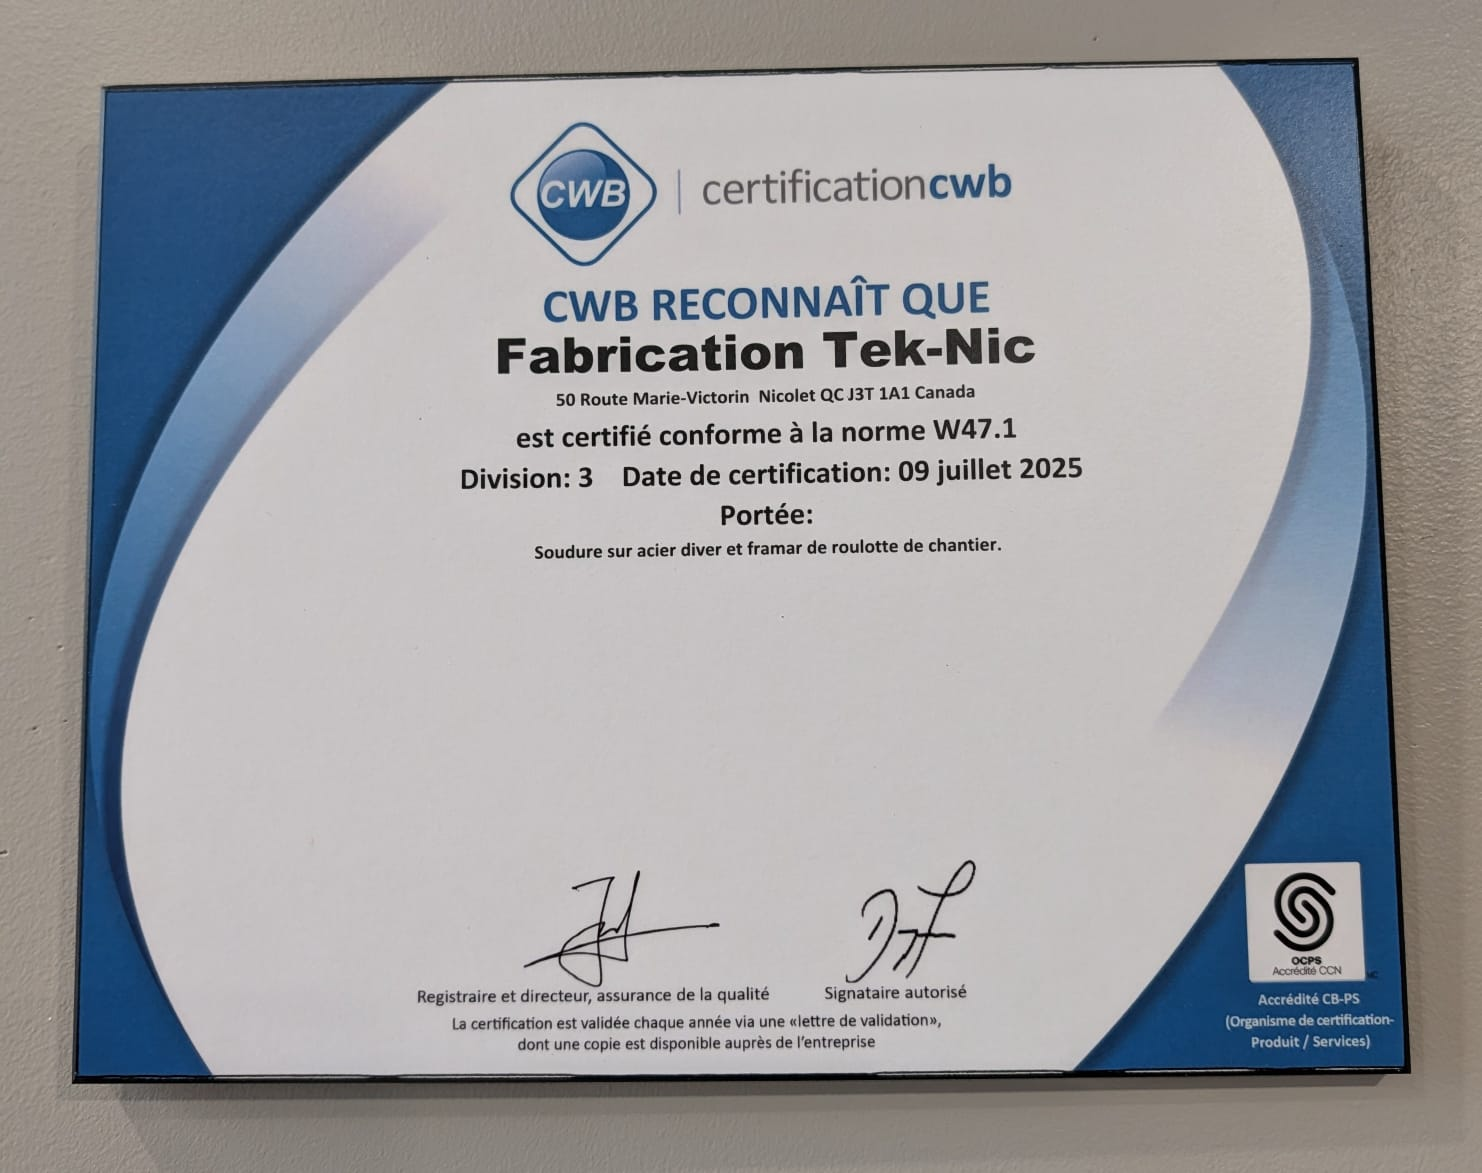
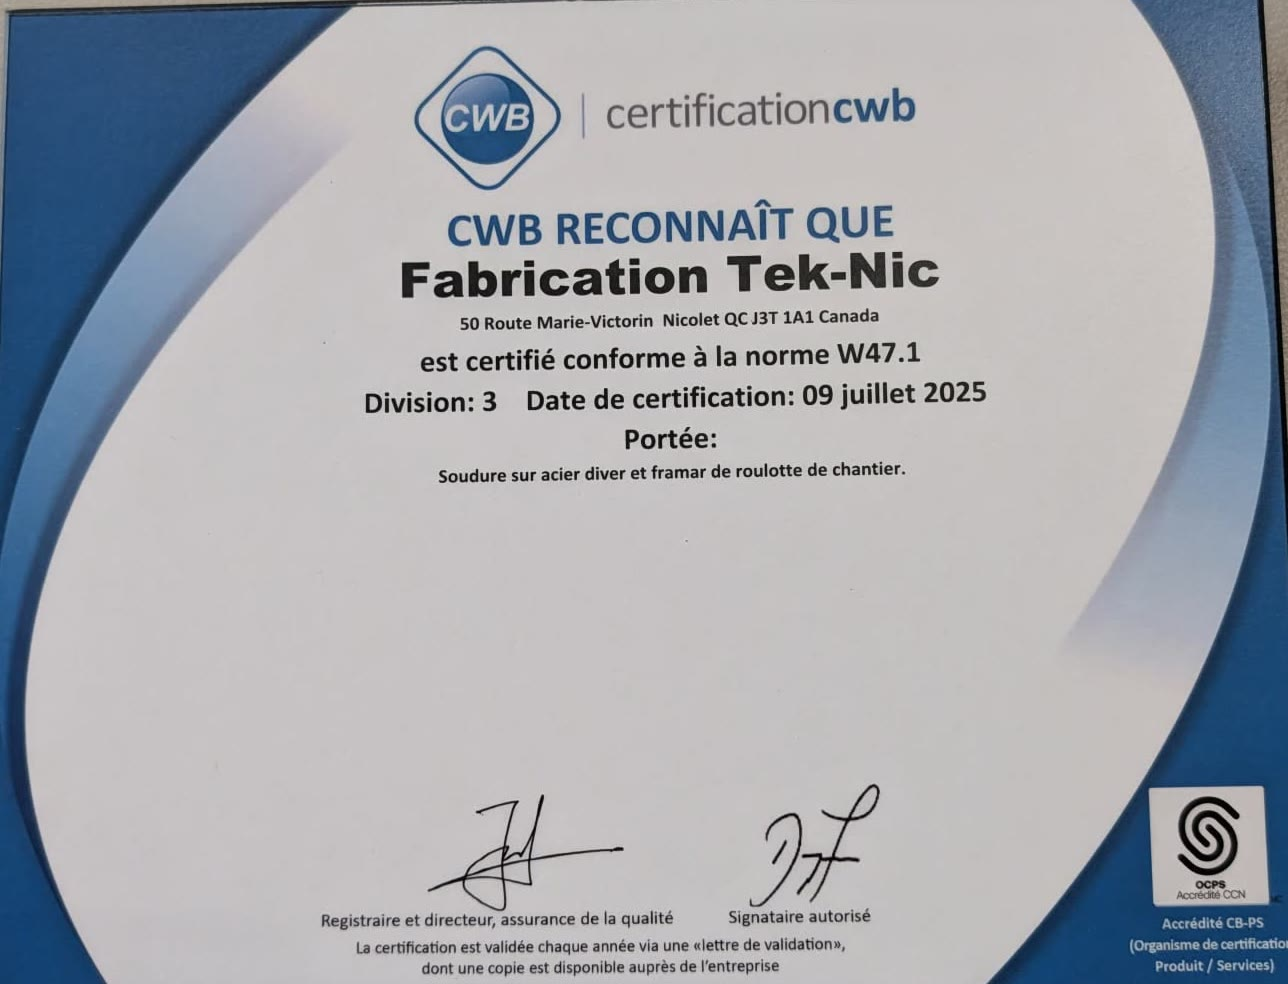
Crop certificate photos to the document and drop fixed white frames
- Crop both photos to the document area (remove wall, table and edges)
- Show each document at its natural aspect ratio instead of a fixed box
- Removes the white bars around the images on desktop and mobile

diff --git a/src/components/Certifications.tsx b/src/components/Certifications.tsx
@@ -52,17 +52,15 @@ export default function Certifications() {
               key={c.src}
               type="button"
               onClick={() => setActive(c)}
-              className="group text-left border border-white/10 hover:border-white/30 rounded-lg p-4 bg-white/[0.02] transition-colors"
+              className="group text-left border border-white/10 hover:border-white/30 rounded-lg p-3 bg-white/[0.02] transition-colors"
             >
-              <div className="h-64 md:h-72 flex items-center justify-center bg-white rounded-sm overflow-hidden">
-                <img
-                  src={c.src}
-                  alt={c.alt}
-                  loading="lazy"
-                  className="max-h-full max-w-full object-contain"
-                />
-              </div>
-              <div className="mt-4 flex items-center justify-between gap-4">
+              <img
+                src={c.src}
+                alt={c.alt}
+                loading="lazy"
+                className="block w-full h-auto rounded-sm shadow-lg shadow-black/50"
+              />
+              <div className="mt-4 px-1 flex items-center justify-between gap-4">
                 <span className="font-mono text-[10px] tracking-[0.3em] uppercase text-white/60">{c.caption}</span>
                 <span className="font-mono text-[10px] tracking-[0.3em] uppercase text-teknic-red transition-transform group-hover:translate-x-1">
                   Agrandir →
